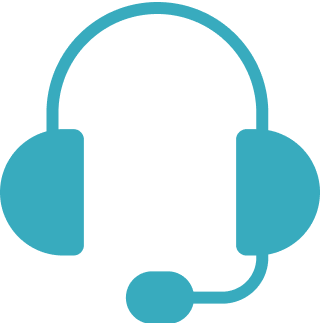
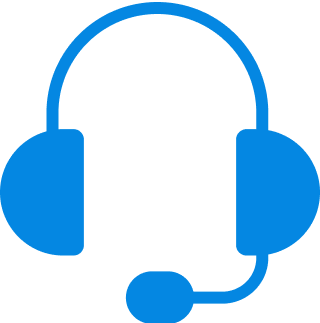
Update theme and resources

Changed region(s): [[0.0, 0.0, 1.0, 1.0]]

diff --git a/lib/utils/theme.dart b/lib/utils/theme.dart
@@ -3,10 +3,10 @@ import 'package:google_fonts/google_fonts.dart';
 
 double defaultMargin = 30.0;
 
-Color primaryColor = Color(0xff6C5ECF);
-Color secondaryColor = Color(0xff38ABBE);
+Color primaryColor = Color(0xff0463ca);
+Color secondaryColor = Color(0xff09b1ec);
 Color alertColor = Color(0xffED6363);
-Color priceColor = Color(0xff2C96F1);
+Color priceColor = Color(0xff0487e2);
 Color backgroundColor1 = Color(0xff1F1D2B);
 Color backgroundColor2 = Color(0xff2B2937);
 Color backgroundColor3 = Color(0xff242231);
